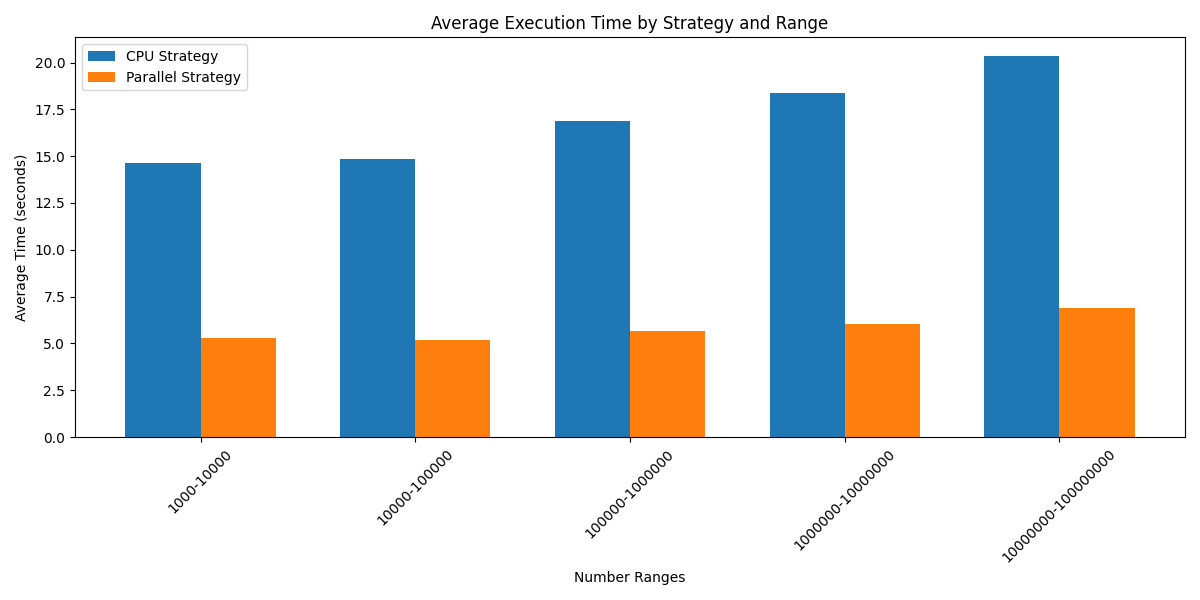
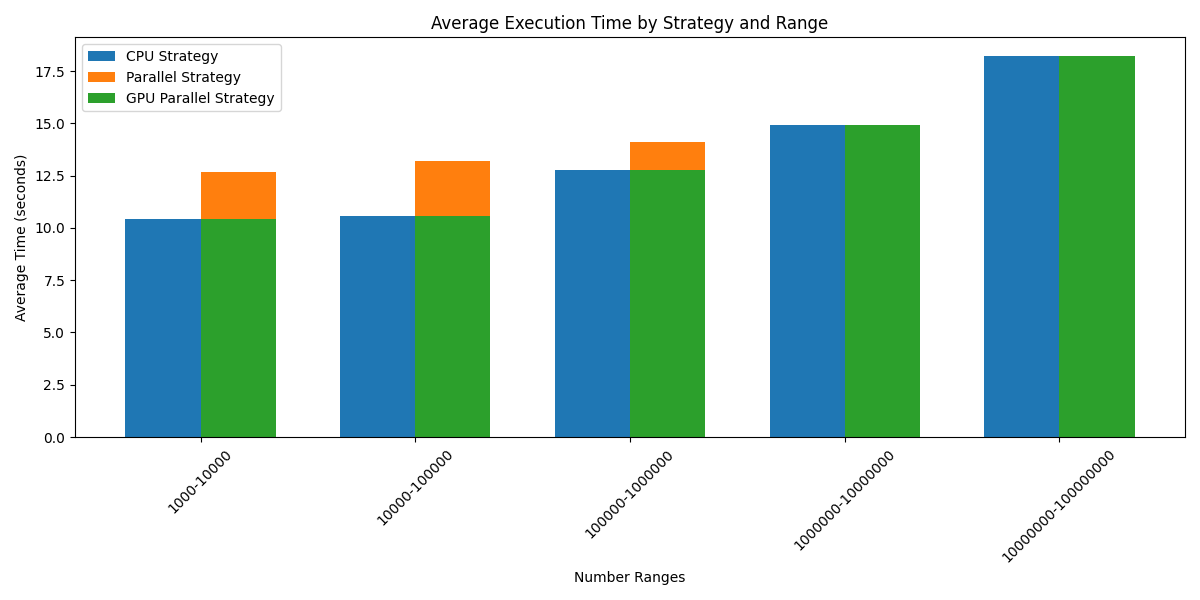
Dodanie gpu do wyników

diff --git a/benchmark.py b/benchmark.py
@@ -6,11 +6,13 @@ from pathlib import Path
 import matplotlib.pyplot as plt
 import numpy as np
 import sympy
+from matplotlib.ticker import ScalarFormatter
 
 from miller_rabin import MillerRabinTest
 from random_base_generator import RandomBaseGenerator
 from strategies.cpu_parallel_strategy import CPUParallelPrimalityTestStrategy
 from strategies.cpu_strategy import CPUPrimalityTestStrategy
+from strategies.gpu_strategy import GPUPrimalityTestStrategy
 
 
 class Benchmark:
@@ -20,9 +22,11 @@ class Benchmark:
 
         self.cpu_strategy = CPUPrimalityTestStrategy()
         self.parallel_strategy = CPUParallelPrimalityTestStrategy()
+        self.gpu_strategy = GPUPrimalityTestStrategy()
 
         self.cpu_test = MillerRabinTest(self.cpu_strategy)
         self.parallel_test = MillerRabinTest(self.parallel_strategy)
+        self.gpu_test =MillerRabinTest(self.gpu_strategy)
 
     def generate_range_data(self,
                             num_ranges: List[Tuple[int, int]],
@@ -49,7 +53,8 @@ class Benchmark:
         results = {
             "cpu": {},
             "parallel": {},
-            "input_sizes": {}
+            "input_sizes": {},
+            "gpu_sizes": {}
         }
 
         print()
@@ -90,23 +95,35 @@ class Benchmark:
             print("parallel", time.time() - start_time)
         results["parallel"][index] = parallel_times
 
-        return cpu_times, parallel_times
+        gpu_times = []
+        for num in test_numbers:
+            random_bases = RandomBaseGenerator.generate_bases(num, iterations)
+            start_time = time.time()
+            self.gpu_test.is_prime(num, iterations, random_bases)
+            gpu_times.append(time.time() - start_time)
+            print("gpu", time.time() - start_time)
+        results["gpu"][index] = cpu_times
+
+
+        return cpu_times, parallel_times, gpu_times
 
     def run_benchmarks(self,
                        test_data: Dict[str, List[int]],
                        iterations: int = 10) -> Dict[str, Dict[str, List[float]]]:
         results = {
             "cpu": {},
-            "parallel": {}
+            "parallel": {},
+            "gpu": {}
         }
 
         for range_id, numbers in test_data.items():
             print(f"\nBenchmarking range {range_id}")
 
-            cpu_times, parallel_times = self.measure_time(numbers, iterations, results, range_id)
+            cpu_times, parallel_times, gpu_times = self.measure_time(numbers, iterations, results, range_id)
 
             print(f"Average CPU time: {np.mean(cpu_times):.4f}s")
             print(f"Average Parallel time: {np.mean(parallel_times):.4f}s")
+            print(f"Average GPI Parallel time: {np.mean(gpu_times):.4f}s")
 
         with open(self.output_dir / "bar_results.json", "w") as f:
             json.dump(results, f)
@@ -118,15 +135,18 @@ class Benchmark:
         ranges = list(results["cpu"].keys())
         cpu_data = [results["cpu"][range_id] for range_id in ranges]
         parallel_data = [results["parallel"][range_id] for range_id in ranges]
+        gpu_data = [results["gpu"][range_id] for range_id in ranges]
 
         cpu_means = [np.mean(times) for times in cpu_data]
         parallel_means = [np.mean(times) for times in parallel_data]
+        gpu_means = [np.mean(times) for times in gpu_data]
 
         x = np.arange(len(ranges))
         width = 0.35
 
         plt.bar(x - width / 2, cpu_means, width, label='CPU Strategy')
         plt.bar(x + width / 2, parallel_means, width, label='Parallel Strategy')
+        plt.bar(x + width / 2, gpu_means, width, label='GPU Parallel Strategy')
 
         plt.xlabel('Number Ranges')
         plt.ylabel('Average Time (seconds)')
@@ -142,14 +162,19 @@ class Benchmark:
 
         cpu_means = [np.mean(results["cpu"][d]) for d in digits]
         parallel_means = [np.mean(results["parallel"][d]) for d in digits]
+        gpu_means = [np.mean(results["gpu"][d]) for d in digits]
         cpu_stds = [np.std(results["cpu"][d]) for d in digits]
         parallel_stds = [np.std(results["parallel"][d]) for d in digits]
+        gpu_stds = [np.std(results["gpu"][d]) for d in digits]
 
         input_sizes = [np.mean(results["input_sizes"][d]) for d in digits]
 
         plt.figure(figsize=(12, 6))
         plt.errorbar(input_sizes, cpu_means, yerr=cpu_stds, label='CPU Strategy', marker='o')
         plt.errorbar(input_sizes, parallel_means, yerr=parallel_stds, label='Parallel Strategy', marker='s')
+        plt.errorbar(input_sizes, gpu_means, yerr=gpu_stds, label='GPU Parallel Strategy', marker='s')
+
+        plt.xscale("log")
 
         plt.xlabel('Input Size (Number)')
         plt.ylabel('Execution Time (seconds)')
@@ -168,23 +193,25 @@ class Benchmark:
         min_val, max_val = test_range
         numbers = [sympy.randprime(min_val, max_val) for _ in range(samples_per_step)]
 
+
         results = {
             "iterations": [],
             "cpu_times": [],
-            "parallel_times": []
+            "parallel_times": [],
+            "gpu_times": []
         }
-
         print("\nStarting iteration test...")
 
         iterations = start_iterations
         while iterations <= end_iterations:
             print(f"Testing {iterations} iterations...")
 
-            cpu_times, parallel_times = self.measure_time_for_iterations(numbers, iterations)
+            cpu_times, parallel_times, gpu_times = self.measure_time_for_iterations(numbers, iterations)
 
             results["iterations"].append(iterations)
             results["cpu_times"].append(np.mean(cpu_times))
             results["parallel_times"].append(np.mean(parallel_times))
+            results["gpu_times"].append(np.mean(gpu_times))
 
             iterations *= 10  # Zwiększamy liczbę iteracji o jedno zero
 
@@ -208,17 +235,28 @@ class Benchmark:
             self.parallel_test.is_prime(num, iterations, random_bases)
             parallel_times.append(time.time() - start_time)
 
-        return cpu_times, parallel_times
+        gpu_times = []
+        for num in test_numbers:
+            random_bases = RandomBaseGenerator.generate_bases(num, iterations)
+            start_time = time.time()
+            self.gpu_test.is_prime(num, iterations, random_bases)
+            gpu_times.append(time.time() - start_time)
+
+        return cpu_times, parallel_times, gpu_times
 
     def generate_iterations_chart(self, results: Dict[str, List[float]]):
         iterations = results["iterations"]
         cpu_times = results["cpu_times"]
         parallel_times = results["parallel_times"]
+        gpu_times = results["gpu_times"]
 
         plt.figure(figsize=(12, 6))
 
         plt.plot(iterations, cpu_times, label="CPU Strategy", marker='o')
         plt.plot(iterations, parallel_times, label="Parallel Strategy", marker='s')
+        plt.plot(iterations, gpu_times, label="GPU Parallel Strategy", marker='s')
+
+        plt.xscale("log")
 
         plt.xlabel('Number of Iterations')
         plt.ylabel('Average Execution Time (seconds)')
@@ -241,14 +279,14 @@ def main():
         (10000000, 100000000)
     ]
 
-    range_data = benchmark.generate_range_data(num_ranges=ranges, numbers_per_range=2)
-    range_results = benchmark.run_benchmarks(test_data=range_data, iterations=10000000)
-    benchmark.generate_bar_chart(range_results)
+    # range_data = benchmark.generate_range_data(num_ranges=ranges, numbers_per_range=2)
+    # range_results = benchmark.run_benchmarks(test_data=range_data, iterations=10000000)
+    # benchmark.generate_bar_chart(range_results)
+    #
+    # results = benchmark.generate_increasing_data(max_digits=12, step=2, samples_per_step=3, iterations=10000000)
+    # benchmark.generate_line_chart(results)
 
-    results = benchmark.generate_increasing_data(max_digits=12, step=2, samples_per_step=3, iterations=10000000)
-    benchmark.generate_line_chart(results)
-
-    iteration_results = benchmark.generate_iterations_test(test_range=ranges[2], start_iterations=1000, end_iterations=10000000, samples_per_step=3)
+    iteration_results = benchmark.generate_iterations_test(test_range=ranges[2], start_iterations=1000, end_iterations=100000000, samples_per_step=3)
     benchmark.generate_iterations_chart(iteration_results)
 
 
